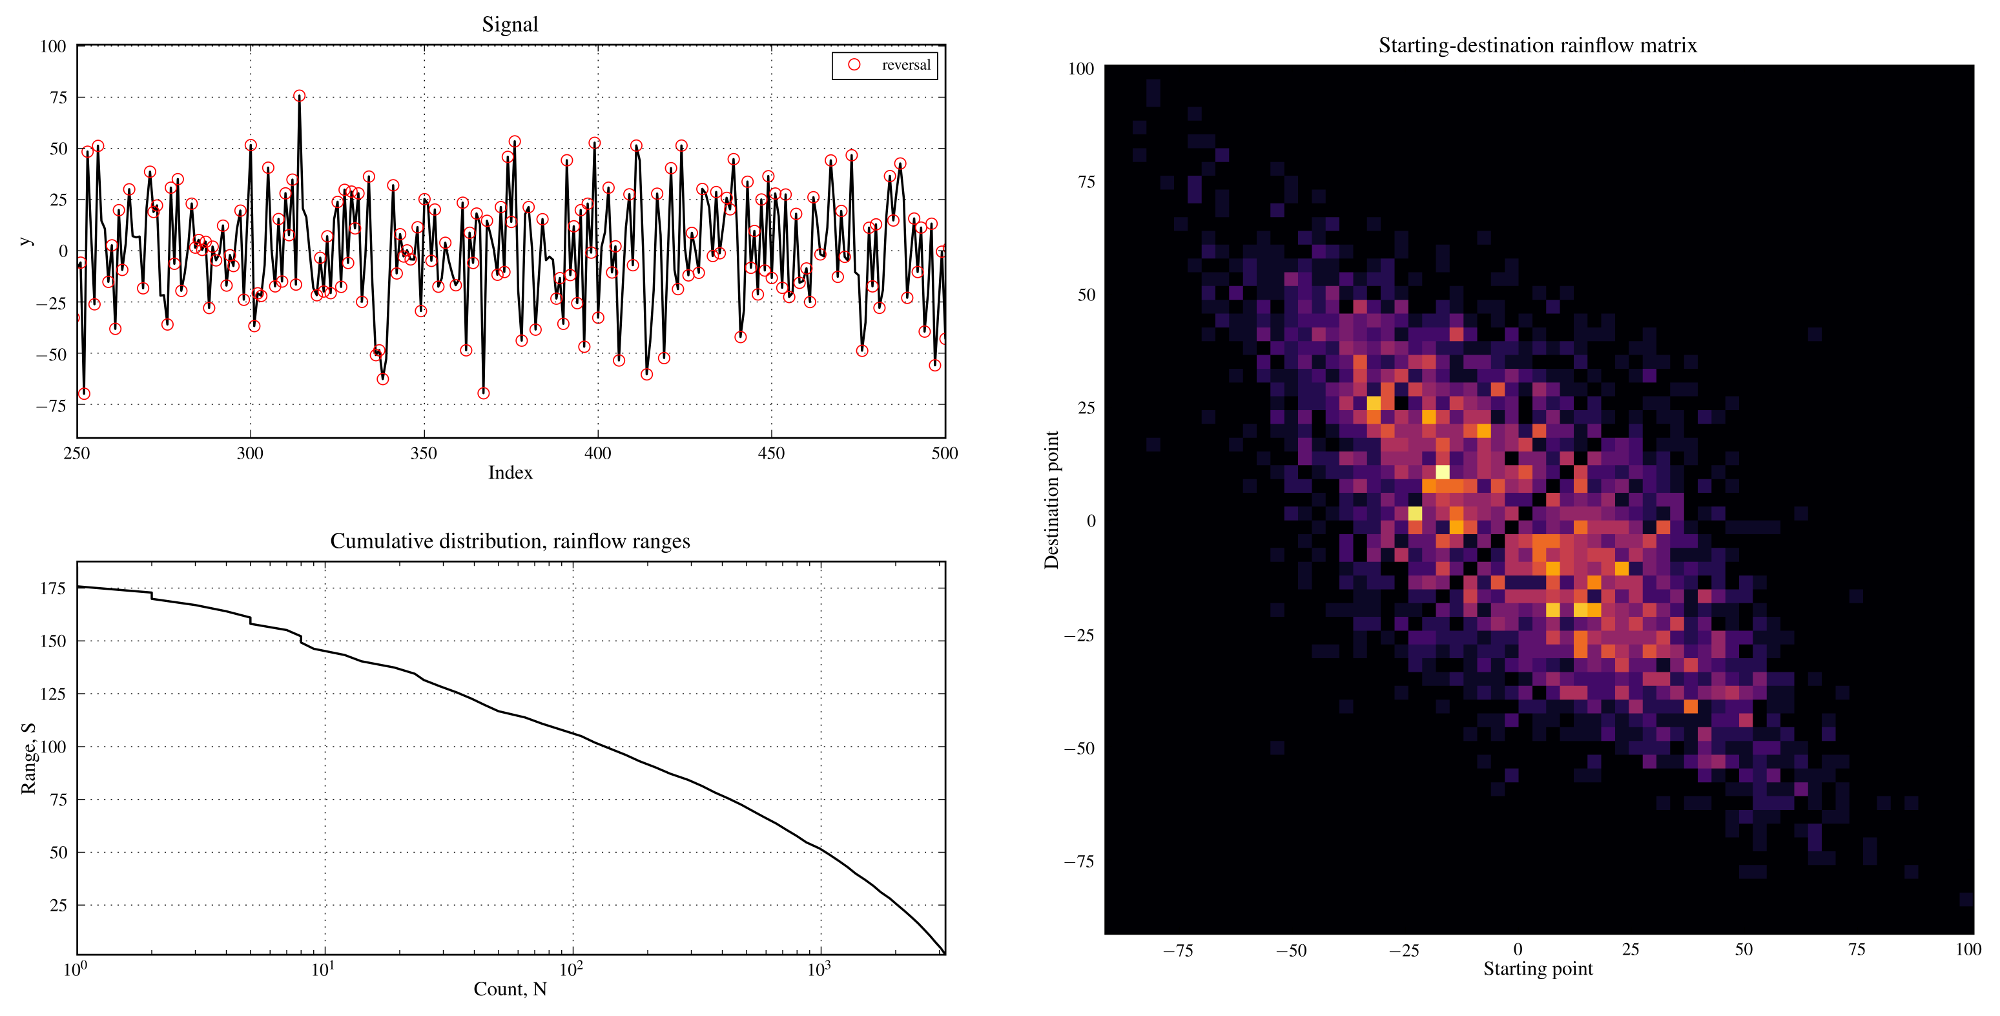
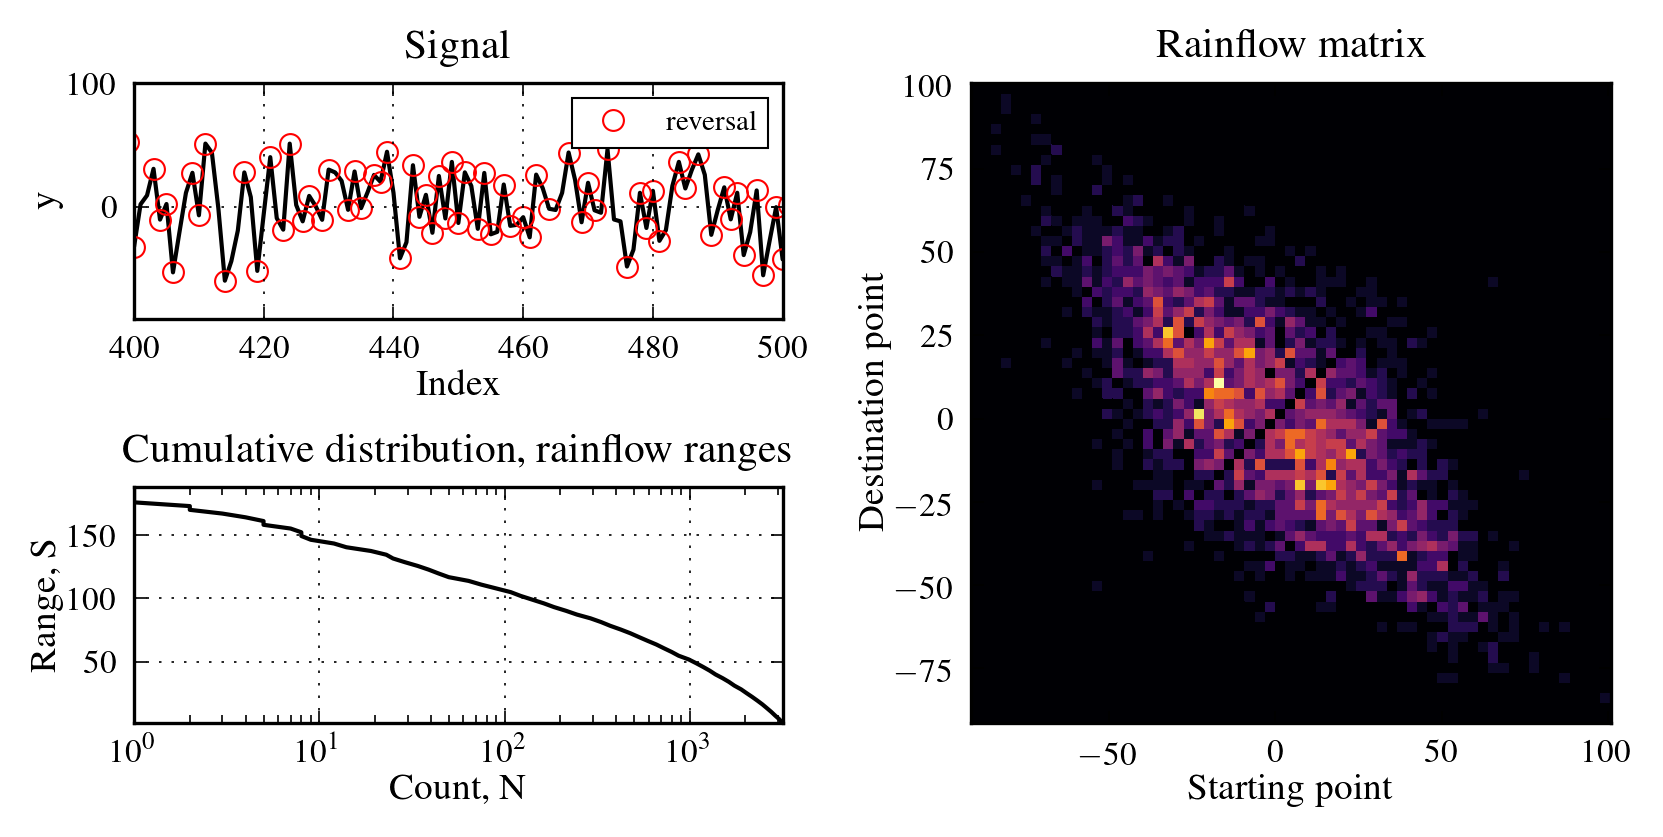
Moved get_range_count function from example.py and cleaned up example.py

diff --git a/example.py b/example.py
@@ -3,7 +3,7 @@ import numpy as np
 import matplotlib.pyplot as plt
 from fatpack.rainflow import (get_reversals, get_rainflow_cycles,
                               get_rainflow_matrix, duplicate_reversals,
-                              get_rainflow_ranges)
+                              get_rainflow_ranges, get_range_count)
 
 np.random.seed(1)
 
@@ -25,38 +25,8 @@ ranges = np.abs(cycles_total[:, 1] - cycles_total[:, 0])
 # by the wrapper function `get_rainflow_ranges`, i.e
 # ranges = get_rainflow_ranges(y)
 
-
-def get_range_count(y, bins=10, weights=None):
-    """Return count and the values ranges (midpoint of bin).
-
-    Arguments
-    ---------
-    y : ndarray
-        Array with the values where the
-    bins : Optional[ndarray,int]
-        If bins is a sequence, the values are treated as the left edges (and
-        the rightmost edge) of the bins.
-        if bins is an int, a sequence is created diving the range `min`--`max`
-        of y into `bin` number of equally sized bins.
-    weights : Optional[ndarray]
-        Array with same size as y, can be used to account for half cycles, i.e
-        applying a weight of 0.5 to a value in yields a counting value of 0.5
-
-    Returns
-    -------
-    N, S : ndarray
-        The count and the characteristic value for the range.
-    """
-    N, bns = np.histogram(y, bins=bins, weights=weights)
-    dbns = np.diff(bns)
-    S = bns[:-1] - dbns / 2.
-    return N, S
-
-
-
-
-
-fig = plt.figure(dpi=144)
+figsize = np.array([140., 70.]) / 25.
+fig = plt.figure(dpi=300, figsize=figsize)
 
 # Plotting signal with reversals.
 ax_signal = plt.subplot2grid((2, 2), (0, 0))
@@ -64,7 +34,7 @@ ax_signal.plot(y)
 ax_signal.plot(reversals_ix, y[reversals_ix], 'ro', fillstyle='none',
                label='reversal')
 ax_signal.legend()
-ax_signal.set(title="Signal", ylabel="y", xlabel="Index", xlim=[250, 500])
+ax_signal.set(title="Signal", ylabel="y", xlabel="Index", xlim=[400, 500])
 
 # Plotting the cumulative distribution of the cycle count
 ax_cumdist = plt.subplot2grid((2, 2), (1, 0))
@@ -80,9 +50,10 @@ bins = np.linspace(cycles_total.min(), cycles_total.max(), 64)
 rfcmat = get_rainflow_matrix(cycles_total, bins, bins)
 X, Y = np.meshgrid(bins, bins, indexing='ij')
 ax_rfcmat.pcolormesh(X, Y, rfcmat)
-ax_rfcmat.set(title="Starting-destination rainflow matrix",
+ax_rfcmat.set(title="Rainflow matrix",
               xlabel="Starting point", ylabel="Destination point")
-
+fig.tight_layout()
+# fig.savefig('example.png', figsize=figsize, dpi=300)
 plt.show(block=True)
 
 

diff --git a/fatpack/rainflow.py b/fatpack/rainflow.py
@@ -230,3 +230,30 @@ if __name__ == "__main__":
 
     runner = unittest.TextTestRunner()
     runner.run(testsuite())
+
+
+def get_range_count(y, bins=10, weights=None):
+    """Return count and the values ranges (midpoint of bin).
+
+    Arguments
+    ---------
+    y : ndarray
+        Array with the values where the
+    bins : Optional[ndarray,int]
+        If bins is a sequence, the values are treated as the left edges (and
+        the rightmost edge) of the bins.
+        if bins is an int, a sequence is created diving the range `min`--`max`
+        of y into `bin` number of equally sized bins.
+    weights : Optional[ndarray]
+        Array with same size as y, can be used to account for half cycles, i.e
+        applying a weight of 0.5 to a value in yields a counting value of 0.5
+
+    Returns
+    -------
+    N, S : ndarray
+        The count and the characteristic value for the range.
+    """
+    N, bns = np.histogram(y, bins=bins, weights=weights)
+    dbns = np.diff(bns)
+    S = bns[:-1] - dbns / 2.
+    return N, S
